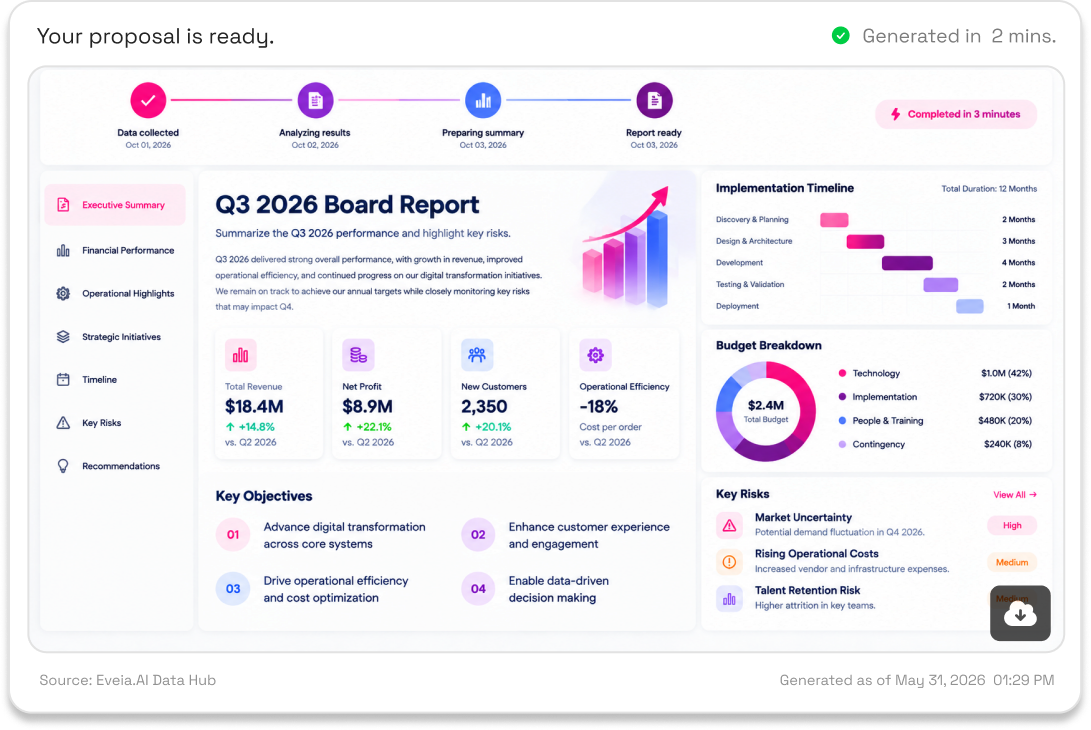
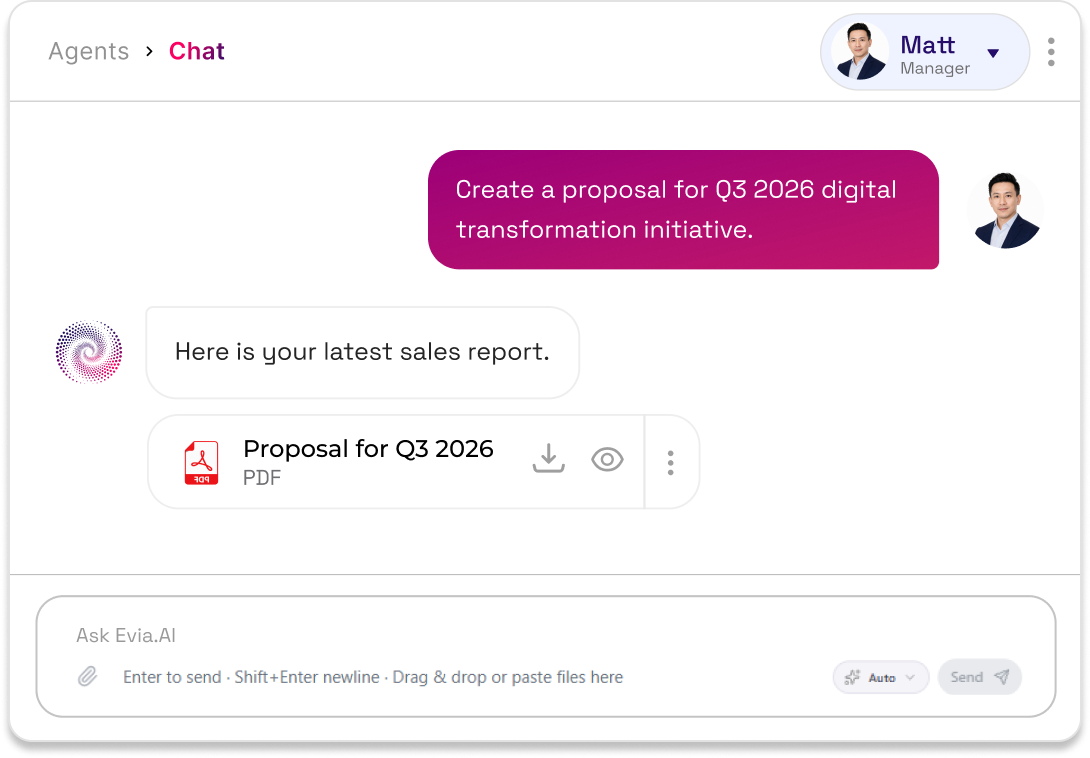
Align Summaries page with Figma design and update BY NEED assets.

diff --git a/src/pages/SummariesPage.jsx b/src/pages/SummariesPage.jsx
@@ -1,15 +1,13 @@
 import { useEffect, useRef, useState } from 'react'
 import { Link } from 'react-router-dom'
 import heroVisual from '../assets/summaries-hero-card.png'
-import ringsArt from '../assets/summaries-rings.png'
-import glowPink from '../assets/summaries-compare-glow-tr.svg'
-import glowPurple from '../assets/summaries-compare-glow-bl.svg'
-import glowPurpleDeep from '../assets/summaries-compare-glow-bl2.svg'
 import dotCyan from '../assets/summaries-dot-cyan.svg'
 import dotOrange from '../assets/summaries-dot-orange.svg'
 import dotGreen from '../assets/summaries-dot-green.svg'
 import stepLine from '../assets/proposal-step-line.svg'
-import byNeedImg from '../assets/proposal-byneed.png'
+import byNeedReports from '../assets/summaries-byneed-reports.png'
+import byNeedSearch from '../assets/summaries-byneed-search.png'
+import byNeedProposal from '../assets/summaries-byneed-proposal.png'
 import footerLogo from '../assets/footer-logo.png'
 import Footer from '../components/Footer.jsx'
 
@@ -45,19 +43,22 @@ const HELP_POINTS = [
 
 const BY_NEED = [
   {
-    title: 'Instant Answers from Data',
-    body: 'Your organization already has the information people need.',
-    href: '/search',
-  },
-  {
     title: 'Decision-Ready Reports',
     body: 'Preparing a report often takes more time than writing it.',
     href: '/reports',
+    image: byNeedReports,
+  },
+  {
+    title: 'Instant Answers from Data',
+    body: 'Your organization already has the information people need.',
+    href: '/search',
+    image: byNeedSearch,
   },
   {
     title: 'Create Proposal Faster',
     body: 'Proposal writing often starts with gathering pricing, service information, company.',
     href: '/proposals',
+    image: byNeedProposal,
   },
 ]
 
@@ -90,7 +91,6 @@ export default function SummariesPage() {
   const [heroReady, setHeroReady] = useState(false)
   const [heroSettled, setHeroSettled] = useState(false)
   const pageRef = useRef(null)
-  const ringsRef = useRef(null)
   const heroVisualRef = useRef(null)
 
   useEffect(() => {
@@ -119,33 +119,6 @@ export default function SummariesPage() {
         heroVisualRef.current.style.setProperty('--paper-mid-y', `${heroOffset * 0.09}px`)
         heroVisualRef.current.style.setProperty('--paper-front-y', `${heroOffset * 0.03}px`)
       }
-
-      if (ringsRef.current) {
-        const rect = ringsRef.current.getBoundingClientRect()
-        const progress = (window.innerHeight * 0.72 - rect.top) / window.innerHeight
-        const p = Math.max(-0.35, Math.min(0.55, progress))
-        ringsRef.current.style.setProperty('--rings-y', `${p * 90}px`)
-        ringsRef.current.style.setProperty('--rings-scale', `${1 + p * 0.08}`)
-      }
-
-      const glows = page.querySelectorAll('.summaries-compare-glow')
-      if (glows.length) {
-        const compare = glows[0].closest('.summaries-compare')
-        if (compare) {
-          const rect = compare.getBoundingClientRect()
-          const p = Math.max(-1, Math.min(1, (window.innerHeight * 0.5 - rect.top) / window.innerHeight))
-          glows[0].style.setProperty('--glow-x', `${p * 28}px`)
-          glows[0].style.setProperty('--glow-y', `${p * -22}px`)
-          if (glows[1]) {
-            glows[1].style.setProperty('--glow-x', `${p * -18}px`)
-            glows[1].style.setProperty('--glow-y', `${p * 16}px`)
-          }
-          if (glows[2]) {
-            glows[2].style.setProperty('--glow-x', `${p * -10}px`)
-            glows[2].style.setProperty('--glow-y', `${p * 24}px`)
-          }
-        }
-      }
     }
 
     const onScroll = () => {
@@ -160,7 +133,7 @@ export default function SummariesPage() {
   }, [])
 
   return (
-    <main ref={pageRef} className="reports-page search-page summaries-page">
+    <main ref={pageRef} className="reports-page search-page summaries-page reports-page--blush">
       <div className="reports-hero-wrap">
         <header className="reports-hero">
           <div className="reports-hero-inner">
@@ -206,13 +179,6 @@ export default function SummariesPage() {
       <section className="reports-sources">
         <div className="reports-sources-inner">
           <div className="summaries-how-head">
-            <img
-              ref={ringsRef}
-              className={`summaries-rings ${stepsVisible ? 'is-inview' : ''}`}
-              src={ringsArt}
-              alt=""
-              aria-hidden="true"
-            />
             <h2 className="reports-sources-title">How it works</h2>
             <p className="reports-sources-desc">
               Turn Long Documents Into Clear, Actionable Summaries
@@ -278,24 +244,6 @@ export default function SummariesPage() {
             ref={compareRef}
             className={`summaries-compare ${compareVisible ? 'is-visible' : ''}`}
           >
-            <img
-              className="summaries-compare-glow summaries-compare-glow--tr"
-              src={glowPink}
-              alt=""
-              aria-hidden="true"
-            />
-            <img
-              className="summaries-compare-glow summaries-compare-glow--bl"
-              src={glowPurple}
-              alt=""
-              aria-hidden="true"
-            />
-            <img
-              className="summaries-compare-glow summaries-compare-glow--bl2"
-              src={glowPurpleDeep}
-              alt=""
-              aria-hidden="true"
-            />
             <div className="summaries-compare-inner">
               <h2>
                 Executive Summaries <span>vs.</span> Eveia.AI
@@ -327,7 +275,9 @@ export default function SummariesPage() {
               <div className="reports-byneed-grid">
                 {BY_NEED.map((item) => (
                   <article className="reports-byneed-card" key={item.title}>
-                    <img src={byNeedImg} alt="" />
+                    <div className="reports-byneed-media">
+                      <img src={item.image} alt="" />
+                    </div>
                     <div className="reports-byneed-copy">
                       <h3>{item.title}</h3>
                       <p>{item.body}</p>

diff --git a/src/index.css b/src/index.css
@@ -4430,6 +4430,7 @@ a{text-decoration:none;color:inherit;}
   .search-pill p{letter-spacing:0;font-size:14px;}
   .proposal-hero-visual,
   .summaries-hero-visual{margin:12px auto 0;width:min(100%,360px);}
+  .summaries-page .reports-hero-inner{grid-template-columns:1fr;}
   .proposal-steps{flex-direction:column;align-items:stretch;gap:12px;margin-bottom:28px;}
   .proposal-step-wrap{width:100%;}
   .proposal-step{
@@ -4517,7 +4518,7 @@ a{text-decoration:none;color:inherit;}
 }
 
 .summaries-page .reports-sources{
-  background:#000;
+  background:var(--reports-dark-bg);
   overflow:hidden;
   padding-top:clamp(120px,12vw,182px);
 }
@@ -4530,28 +4531,12 @@ a{text-decoration:none;color:inherit;}
   position:relative;
   z-index:1;
 }
-.summaries-rings{
-  position:absolute;
-  left:50%;
-  bottom:0;
-  width:100vw;
-  max-width:none;
-  height:auto;
-  transform:translateX(-50%) translateY(var(--rings-y, 40px)) scale(var(--rings-scale, 0.92));
-  opacity:0;
-  pointer-events:none;
-  z-index:0;
-  display:block;
-  will-change:transform, opacity;
-  transition:opacity 1.1s cubic-bezier(0.16, 1, 0.3, 1);
-}
-.summaries-rings.is-inview{
-  opacity:1;
-}
+.summaries-rings{display:none;}
 .summaries-page .reports-sources-inner{z-index:1;}
+.summaries-page .reports-hero{overflow:visible;}
 .summaries-page .reports-hero-inner{
   align-items:center;
-  grid-template-columns:minmax(0,714px) minmax(0,1fr);
+  grid-template-columns:minmax(0,1fr) minmax(280px,537px);
   gap:clamp(16px,2.4vw,40px);
 }
 .summaries-page .reports-hero-inner > *{min-width:0;}
@@ -4559,7 +4544,8 @@ a{text-decoration:none;color:inherit;}
 .summaries-page .reports-hero-title{max-width:714px;}
 .summaries-hero-visual{
   position:relative;
-  width:min(100%,537px);
+  width:100%;
+  max-width:537px;
   margin:0 0 0 auto;
   padding:0 0 8% 0;
   --paper-back-y:0px;
@@ -4594,6 +4580,7 @@ a{text-decoration:none;color:inherit;}
   position:relative;
   z-index:1;
   width:100%;
+  max-width:none;
   height:auto;
   display:block;
   opacity:0;
@@ -4676,19 +4663,9 @@ a{text-decoration:none;color:inherit;}
   padding:77px 24px 72px;
   text-align:center;
   color:#fff;
-  background:
-    radial-gradient(ellipse 58% 90% at 100% -8%, rgba(252,0,97,.62) 0%, transparent 58%),
-    radial-gradient(ellipse 42% 70% at -4% 108%, rgba(37,13,105,.9) 0%, transparent 62%),
-    #000;
+  background:var(--reports-dark-bg);
 }
-.summaries-compare-glow{
-  position:absolute;
-  pointer-events:none;
-  z-index:0;
-  max-width:none;
-  transform:translate3d(var(--glow-x, 0px), var(--glow-y, 0px), 0);
-  will-change:transform;
-}
+.summaries-compare-glow{display:none;}
 .summaries-compare-inner{
   position:relative;
   z-index:1;
